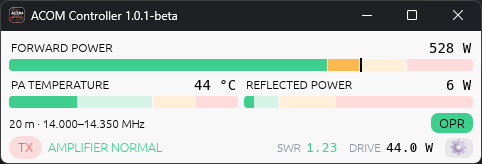
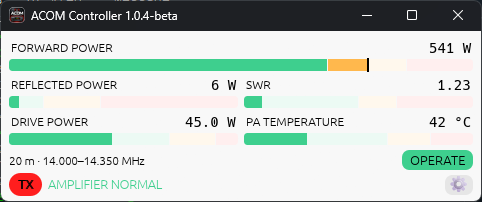
Compact layout: five selectable bar graphs (right-click to change), cleaner status strip; refresh README screenshots

diff --git a/src/app.rs b/src/app.rs
@@ -1,6 +1,6 @@
 //! Main application window.
 
-use crate::config::{Config, Connection, PowerPulse, RadioSource};
+use crate::config::{CompactGraph, Config, Connection, PowerPulse, RadioSource};
 use crate::link::{self, Cmd, Event, LinkHandle};
 use crate::protocol::bands::{BANDS, band_by_number, band_for_frequency};
 use crate::protocol::commands::{self, ModeRequest, Select};
@@ -129,6 +129,8 @@ pub struct App {
     pos_skip: u8,
     /// Where the settings window was opened; fixed while open so it is not re-placed every frame.
     settings_start: Option<egui::Pos2>,
+    /// Compact layout's "choose graph" popup: (slot, screen position, frames open, has had focus).
+    graph_menu: Option<(usize, egui::Pos2, u32, bool)>,
     pos_init: bool,
     pos_changed: Option<Instant>,
 }
@@ -182,6 +184,7 @@ impl App {
             hf_base: (0, 0),
             pos_skip: 0,
             settings_start: None,
+            graph_menu: None,
             pos_init: false,
             pos_changed: None,
             show_amp_settings: false,
@@ -978,7 +981,7 @@ impl App {
             self.pos_init = true;
             let saved = if self.cfg.compact { self.cfg.pos_compact } else { self.cfg.pos_full };
             if let Some(p) = saved {
-                let size = ctx.input(|i| i.viewport().inner_rect.map(|r| r.size())).unwrap_or(egui::vec2(480.0, 174.0));
+                let size = ctx.input(|i| i.viewport().inner_rect.map(|r| r.size())).unwrap_or(egui::vec2(480.0, 254.0));
                 keep_on_screen(ctx, size, Some(egui::pos2(p[0], p[1])));
                 self.pos_skip = 6;
             }
@@ -1008,6 +1011,7 @@ impl App {
     fn compact_view(&mut self, ui: &mut egui::Ui) {
         let connected = self.link.is_some() && self.amp.alive();
         let Some(t) = self.amp.telemetry.clone().filter(|_| self.amp.alive()) else {
+            self.graph_menu = None;
             {
                 let full = ui.max_rect();
                 let top = ui.cursor().top();
@@ -1035,34 +1039,48 @@ impl App {
         let temp_c = t.temp1_c();
         ui.spacing_mut().item_spacing = egui::vec2(6.0, 3.0);
 
-        let meter_top = ui.cursor().top();
-        Meter { label: "FORWARD POWER", value: t.forward_w, min: 0.0, max: fs, text: format!("{:.0} W", t.forward_w),
-            zones: Zones { warn: self.amp.model().rated_w() * 0.80, crit: self.amp.model().rated_w() }, peak, height: 34.0 }.show(ui);
-        {
-            let full = ui.max_rect();
-            let row = egui::Rect::from_min_max(egui::pos2(full.left() + 120.0, meter_top - 1.0), egui::pos2(full.right() - 80.0, meter_top + 19.0));
-            self.update_banner(ui, row, full.center().x);
-        }
-        let show_swr = self.cfg.compact_show_swr;
+        let kinds = self.cfg.compact_graph_slots;
+        let rated = self.amp.model().rated_w();
+        let temp_txt = self.fmt_temp(temp_c);
         let swr_alert = self.cfg.swr_alert;
-        let mut toggled = false;
-        ui.columns(2, |cols| {
-            Meter { label: "PA TEMPERATURE", value: temp_c, min: 20.0, max: 100.0, text: self.fmt_temp(temp_c),
-                zones: Zones { warn: 70.0, crit: 85.0 }, peak: None, height: 34.0 }.show(&mut cols[0]);
-            let resp = if show_swr {
-                Meter { label: "SWR", value: t.swr.max(1.0), min: 1.0, max: 4.0, text: format!("{:.2}", t.swr.max(1.0)),
-                    zones: Zones { warn: swr_alert, crit: 3.0 }, peak: None, height: 34.0 }.show(&mut cols[1])
-            } else {
-                Meter { label: "REFLECTED POWER", value: t.reflected_w, min: 0.0, max: fs * 0.2, text: format!("{:.0} W", t.reflected_w),
-                    zones: Zones { warn: fs * 0.03, crit: fs * 0.08 }, peak: None, height: 34.0 }.show(&mut cols[1])
+        let mut open_menu = None;
+        let mut slot_meter = |ui: &mut egui::Ui, slot: usize| {
+            let m = match kinds[slot] {
+                CompactGraph::Forward => Meter { label: "FORWARD POWER", value: t.forward_w, min: 0.0, max: fs, text: format!("{:.0} W", t.forward_w),
+                    zones: Zones { warn: rated * 0.80, crit: rated }, peak, height: 34.0 },
+                CompactGraph::Reflected => Meter { label: "REFLECTED POWER", value: t.reflected_w, min: 0.0, max: fs * 0.2, text: format!("{:.0} W", t.reflected_w),
+                    zones: Zones { warn: fs * 0.03, crit: fs * 0.08 }, peak: None, height: 34.0 },
+                CompactGraph::Swr => Meter { label: "SWR", value: t.swr.max(1.0), min: 1.0, max: 4.0, text: format!("{:.2}", t.swr.max(1.0)),
+                    zones: Zones { warn: swr_alert, crit: 3.0 }, peak: None, height: 34.0 },
+                CompactGraph::Temp => Meter { label: "PA TEMPERATURE", value: temp_c, min: 20.0, max: 100.0, text: temp_txt.clone(),
+                    zones: Zones { warn: 70.0, crit: 85.0 }, peak: None, height: 34.0 },
+                CompactGraph::Drive => Meter { label: "DRIVE POWER", value: t.input_w, min: 0.0, max: 100.0, text: format!("{:.1} W", t.input_w),
+                    zones: Zones { warn: 70.0, crit: 90.0 }, peak: None, height: 34.0 },
+                CompactGraph::DrainCurrent => Meter { label: "PA DRAIN CURRENT", value: t.id1_a, min: 0.0, max: 60.0, text: format!("{:.1} A", t.id1_a),
+                    zones: Zones { warn: 45.0, crit: 55.0 }, peak: None, height: 34.0 },
+                CompactGraph::HvVoltage => Meter { label: "PA VOLTAGE (HV)", value: t.hv1_v, min: 0.0, max: 60.0, text: format!("{:.1} V", t.hv1_v),
+                    zones: Zones::NONE, peak: None, height: 34.0 },
             };
-            let tip = if show_swr { "Click to show reflected power" } else { "Click to show SWR" };
-            if resp.on_hover_text(tip).on_hover_cursor(egui::CursorIcon::PointingHand).clicked() {
-                toggled = true;
+            let resp = m.show(ui).on_hover_text("Right-click to change graph");
+            if resp.secondary_clicked() {
+                let origin = resp.ctx.input(|i| i.viewport().inner_rect).map(|r| r.min).unwrap_or(egui::Pos2::ZERO);
+                open_menu = Some((slot, origin + resp.interact_pointer_pos().unwrap_or(resp.rect.center()).to_vec2()));
             }
+        };
+        slot_meter(ui, 0);
+        ui.columns(2, |cols| {
+            slot_meter(&mut cols[0], 1);
+            slot_meter(&mut cols[1], 2);
         });
-        if toggled {
-            self.cfg.compact_show_swr = !self.cfg.compact_show_swr;
+        ui.columns(2, |cols| {
+            slot_meter(&mut cols[0], 3);
+            slot_meter(&mut cols[1], 4);
+        });
+        if let Some((slot, pos)) = open_menu {
+            self.graph_menu = Some((slot, pos, 0, false));
+        }
+        if let Some(chosen) = self.graph_menu_window(ui.ctx(), kinds) {
+            self.cfg.compact_graph_slots = chosen;
             self.cfg.save();
         }
 
@@ -1072,6 +1090,12 @@ impl App {
             (_, Some(b)) => (b.low_khz, b.high_khz),
             _ => (0, 0),
         };
+        {
+            let full = ui.max_rect();
+            let top = ui.cursor().top();
+            let row = egui::Rect::from_min_max(egui::pos2(full.left() + 190.0, top), egui::pos2(full.right() - 90.0, top + 22.0));
+            self.update_banner(ui, row, full.center().x);
+        }
         ui.add_enabled_ui(connected, |ui| {
             ui.horizontal(|ui| {
                 let name = band.map(|b| b.name).unwrap_or("–");
@@ -1091,7 +1115,7 @@ impl App {
             });
         });
 
-        // Status strip: mode, amplifier state, SWR, drive.
+        // Status strip: mode, amplifier state, settings.
         let alarm = self.amp.active_codes.first().copied().or((t.alarm_code != 0).then_some(t.alarm_code));
         let (mode_txt, mode_col) = match t.mode {
             AmpMode::OperateTx => ("TX", RED),
@@ -1099,8 +1123,6 @@ impl App {
             AmpMode::Standby => ("STANDBY", Color32::from_rgb(255, 140, 0)),
             m => (m.label(), AMBER),
         };
-        let swr = t.swr.max(1.0);
-        let swr_col = if swr >= 3.0 { RED } else if swr >= self.cfg.swr_alert { AMBER } else { GREEN };
         ui.horizontal(|ui| {
             if t.mode == AmpMode::OperateTx {
                 widgets::tx_chip(ui, mode_txt);
@@ -1115,19 +1137,58 @@ impl App {
                 if widgets::icon_button(ui, "⚙", "Settings").clicked() {
                     self.show_settings = true;
                 }
-                ui.add_space(6.0);
-                ui.label(RichText::new(format!("{:.1} W", t.input_w)).monospace().strong());
-                ui.label(RichText::new("DRIVE").size(11.5).color(MUTED));
-                ui.add_space(6.0);
-                if show_swr {
-                    ui.label(RichText::new(format!("{:.0} W", t.reflected_w)).monospace().strong());
-                    ui.label(RichText::new("REF_PWR").size(11.5).color(MUTED));
-                } else {
-                    ui.label(RichText::new(format!("{swr:.2}")).monospace().strong().color(swr_col));
-                    ui.label(RichText::new("SWR").size(11.5).color(MUTED));
+            });
+        });
+    }
+
+    /// Popup for choosing the graph in a compact slot. It is a borderless window of its own so it
+    /// can extend beyond the (small) main window. Returns the new slot assignment when one is picked.
+    fn graph_menu_window(&mut self, ctx: &egui::Context, kinds: [CompactGraph; 5]) -> Option<[CompactGraph; 5]> {
+        let (slot, pos, frames, seen_focus) = self.graph_menu?;
+        let size = egui::vec2(190.0, CompactGraph::ALL.len() as f32 * 26.0 + 14.0);
+        let start = clamp_to_monitor(pos, size, ctx.pixels_per_point());
+        let builder = egui::ViewportBuilder::default()
+            .with_title("Choose graph")
+            .with_decorations(false)
+            .with_resizable(false)
+            .with_always_on_top()
+            .with_taskbar(false)
+            .with_inner_size(size)
+            .with_position(start);
+        let mut chosen = None;
+        let mut close = false;
+        let mut focused_now = false;
+        ctx.show_viewport_immediate(egui::ViewportId::from_hash_of("graph_menu_viewport"), builder, |ui, _class| {
+            focused_now = ui.ctx().input(|i| i.focused);
+            if ui.ctx().input(|i| i.viewport().close_requested() || i.key_pressed(egui::Key::Escape)) {
+                close = true;
+            }
+            egui::CentralPanel::default().show_inside(ui, |ui| {
+                for k in CompactGraph::ALL {
+                    let btn = egui::Button::new(k.label()).selected(kinds[slot] == k).min_size(egui::vec2(ui.available_width(), 22.0));
+                    if ui.add(btn).clicked() {
+                        let mut n = kinds;
+                        // Picking a graph already shown elsewhere swaps the two slots.
+                        if let Some(j) = kinds.iter().position(|&x| x == k) {
+                            n[j] = kinds[slot];
+                        }
+                        n[slot] = k;
+                        chosen = Some(n);
+                        close = true;
+                    }
                 }
             });
         });
+        let seen = seen_focus || focused_now;
+        // Dismiss on focus loss (or if it never got focus at all).
+        if !focused_now && (seen || frames > 30) {
+            close = true;
+        }
+        self.graph_menu = if close { None } else { Some((slot, pos, frames + 1, seen)) };
+        if !close {
+            ctx.request_repaint();
+        }
+        chosen
     }
 
     fn settings_window(&mut self, ctx: &egui::Context) {
@@ -1753,5 +1814,5 @@ impl eframe::App for App {
 
 /// Default (inner size, minimum inner size) for the full or compact layout.
 pub fn layout_sizes(compact: bool) -> ([f32; 2], [f32; 2]) {
-    if compact { ([480.0, 174.0], [420.0, 166.0]) } else { ([1330.0, 815.0], [820.0, 560.0]) }
+    if compact { ([480.0, 254.0], [420.0, 246.0]) } else { ([1330.0, 815.0], [820.0, 560.0]) }
 }

diff --git a/src/config.rs b/src/config.rs
@@ -25,6 +25,36 @@ pub enum RadioSource {
     SharedMemory,
 }
 
+/// A bar graph that can be shown in one of the compact layout's five slots.
+#[derive(Debug, Clone, Copy, PartialEq, Eq, Serialize, Deserialize)]
+pub enum CompactGraph {
+    Forward,
+    Reflected,
+    Swr,
+    Temp,
+    Drive,
+    DrainCurrent,
+    HvVoltage,
+}
+
+impl CompactGraph {
+    pub const ALL: [CompactGraph; 7] =
+        [Self::Forward, Self::Reflected, Self::Swr, Self::Drive, Self::Temp, Self::DrainCurrent, Self::HvVoltage];
+    pub const DEFAULT: [CompactGraph; 5] = [Self::Forward, Self::Reflected, Self::Swr, Self::Drive, Self::Temp];
+
+    pub fn label(self) -> &'static str {
+        match self {
+            Self::Forward => "Forward power",
+            Self::Reflected => "Reflected power",
+            Self::Swr => "SWR",
+            Self::Temp => "PA temperature",
+            Self::Drive => "Drive power",
+            Self::DrainCurrent => "PA drain current",
+            Self::HvVoltage => "PA voltage (HV)",
+        }
+    }
+}
+
 #[derive(Debug, Clone, Copy, PartialEq, Eq, Serialize, Deserialize, Default)]
 pub enum PowerPulse {
     #[default]
@@ -68,8 +98,8 @@ pub struct Config {
     pub ui_scale: f32,
     /// Slim single-column layout.
     pub compact: bool,
-    /// Compact layout: the right-hand meter shows SWR instead of reflected power (and the strip shows REF_PWR).
-    pub compact_show_swr: bool,
+    /// Compact layout bar graphs: a full-width bar, then two rows of two half-width bars.
+    pub compact_graph_slots: [CompactGraph; 5],
     /// Last outer window positions (points): compact main window, full main window, settings window.
     pub pos_compact: Option<[f32; 2]>,
     pub pos_full: Option<[f32; 2]>,
@@ -117,7 +147,7 @@ impl Default for Config {
             confirm_dangerous: true,
             ui_scale: 1.0,
             compact: false,
-            compact_show_swr: false,
+            compact_graph_slots: CompactGraph::DEFAULT,
             pos_compact: None,
             pos_full: None,
             pos_settings: None,

diff --git a/README.md b/README.md
@@ -8,7 +8,7 @@ A modern, single-executable Windows controller for ACOM solid-state amplifiers
 It talks to the amplifier over its RS-232 interface using the protocol described in
 `doc/ACOM_RS_232_Serial_Protocol_Description_for_Solid-State_Amplifiers_GB_01_2026.pdf`.
 
-> Status: version 1.0.1. Runs in built-in demo mode and has been exercised on an ACOM 1200S (connect, telemetry, remote power on/off). Other models are untested. See [Roadmap](#roadmap).
+> Status: version 1.0.3. Runs in built-in demo mode and has been exercised on an ACOM 1200S (connect, telemetry, remote power on/off). Other models are untested. See [Roadmap](#roadmap).
 
 ## Screenshots
 
@@ -20,11 +20,21 @@ Captured in demo mode with the simulated amplifier transmitting.
 | --- | --- |
 | <img src="assets/screenshot-dark.png" alt="Full layout, dark theme"> | <img src="assets/screenshot-light.png" alt="Full layout, light theme"> |
 
-**Compact layout**
+**Compact layout** (five bar graphs, each one selectable)
 
 | Dark | Light |
 | --- | --- |
 | <img src="assets/screenshot-compact-dark.png" alt="Compact layout, dark theme"> | <img src="assets/screenshot-compact-light.png" alt="Compact layout, light theme"> |
+
+**Faults** (simulated)
+
+| Full layout: high SWR | Compact: high SWR |
+| --- | --- |
+| <img src="assets/screenshot-fault-swr.png" alt="Full layout showing a high SWR fault"> | <img src="assets/screenshot-compact-fault-swr.png" alt="Compact layout showing a high SWR fault"> |
+
+| Compact: PA temperature too high | Compact: excessive reflected power |
+| --- | --- |
+| <img src="assets/screenshot-compact-fault-temp.png" alt="Compact layout showing a PA temperature fault"> | <img src="assets/screenshot-compact-fault-refl.png" alt="Compact layout showing a reflected power fault"> |
 
 ## Getting started
 
@@ -46,35 +56,10 @@ Captured in demo mode with the simulated amplifier transmitting.
      another PC can use *Remote* mode.
    - *Radio* – follow your transceiver's frequency from N1MM+ (UDP), rigctld, or a shared-memory logger
      and switch the amplifier band automatically.
-   - *Display* – compact layout, dark/light theme, UI scale, temperature units, peak hold.
+   - *Display* – compact layout (right-click a bar to change what it shows), dark/light theme, UI scale, temperature units, peak hold.
    - *Alerts* – SWR threshold, power-off confirmation and sound alerts.
 
 Always try a new setup into a dummy load first.
-
-## What's new in 1.0.1
-
-- **Amplifier only.** Every ACOM solid-state amplifier has a single antenna output (the 500S has two, with no
-  software selection), and none has an internal tuner, so the controls for external antenna tuners and
-  selectors were removed: the antenna and segment buttons, the ATU card, the *ANT* button in the compact
-  layout and the *Antenna names* settings page. The band card is now just *Band*.
-- New screenshots.
-
-## What's new in 1.0.0
-
-- **Settings in their own window** with sections (Connection, Power & sharing, Radio, Display, Alerts,
-  System, About), so it is usable even from the slim compact window.
-- **Amplifier settings** got the same treatment (Operation, CAT interface, User text).
-- **Segmented green/amber/red meters** on every bar graph. The forward-power zones follow the connected
-  model's rated power (amber from 80 %, red at rated power).
-- **Compact layout** is slimmer: no top bar, the settings button sits in the status strip, and the window
-  fits its content.
-- **OPR/STB button** is green in operate and orange in standby; the status chip shows RX (green),
-  STB (orange) or TX (red). *Inhibit TX* turns red while TX is inhibited.
-- **Online time** is shown in years, months, days, hours and minutes.
-- **Light theme** uses black text.
-- **Update check** – a *Check for new version* button in *Settings ▸ About*, and an automatic check
-  against GitHub Releases at startup (can be switched off).
-- **About page** with version, copyright and license.
 
 ## Network sharing (remote operation)
 
